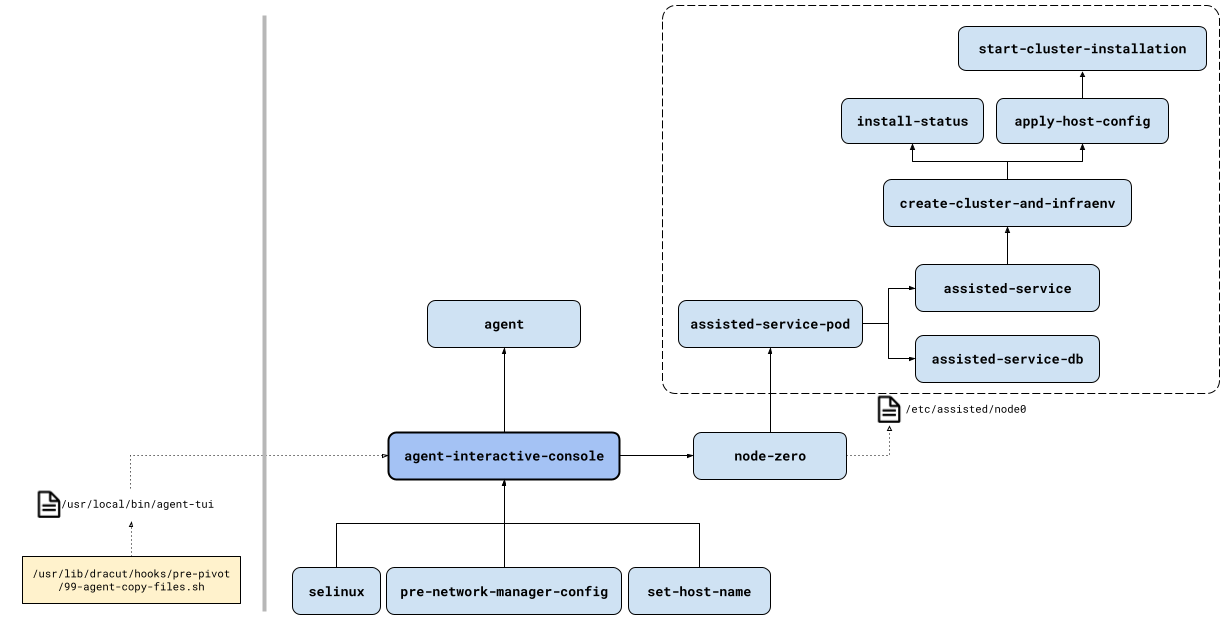
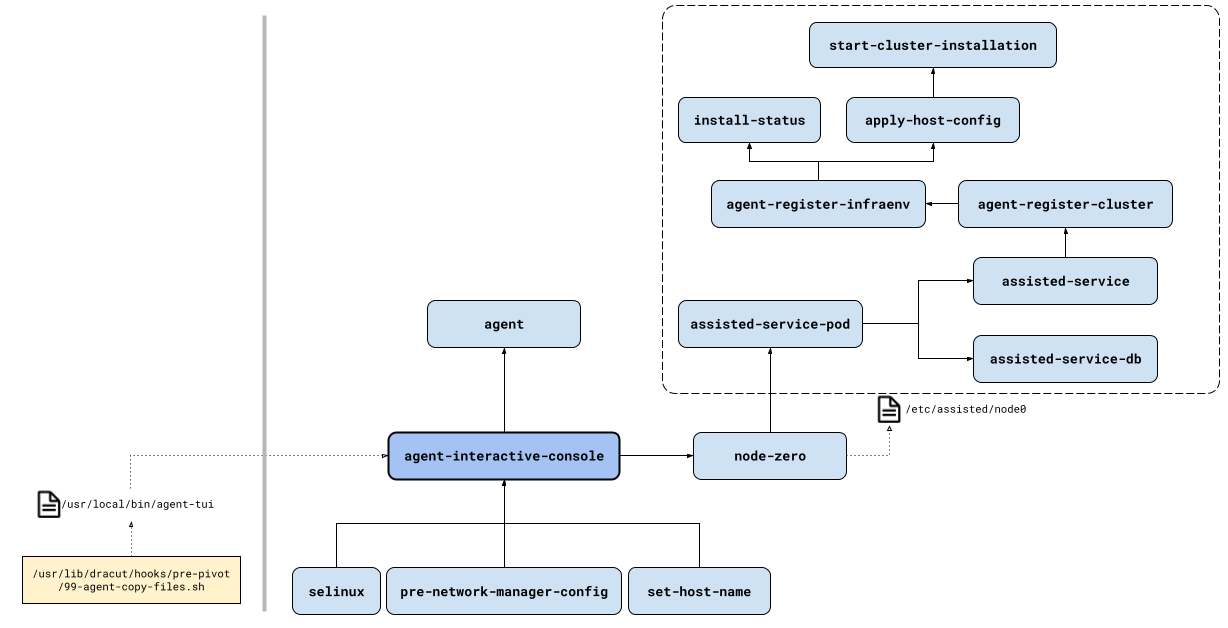
Update agent services diagrams

diff --git a/docs/user/agent/agent-services.md b/docs/user/agent/agent-services.md
@@ -17,7 +17,8 @@ step is required because the agent-tui and nmstate libraries are too big to fit 
 * assisted-service-pod - pod containing the assisted-service REST-API and database
 * assisted-service - assisted-service REST-API
 * assisted-service-db - postgresql database where assisted-service stores data
-* create-cluster-and-infraenv - reads the ZTP manifests located at /etc/assisted/manifests and registers the cluster and infraenv
+* agent-register-cluster - reads the ZTP manifests located at /etc/assisted/manifests and registers the cluster
+* agent-register-infraenv - reads the ZTP manifests located at /etc/assisted/manifests and registers the infraenv
 * install-status - determines the current install status and writes it out to /etc/issue.d/
 * apply-host-config - applies root device hints and roles specified in agent-config.yaml
 * start-cluster-installation - calls assisted-service REST-API to start cluster installation when all hosts are in ready state and have passed validations
